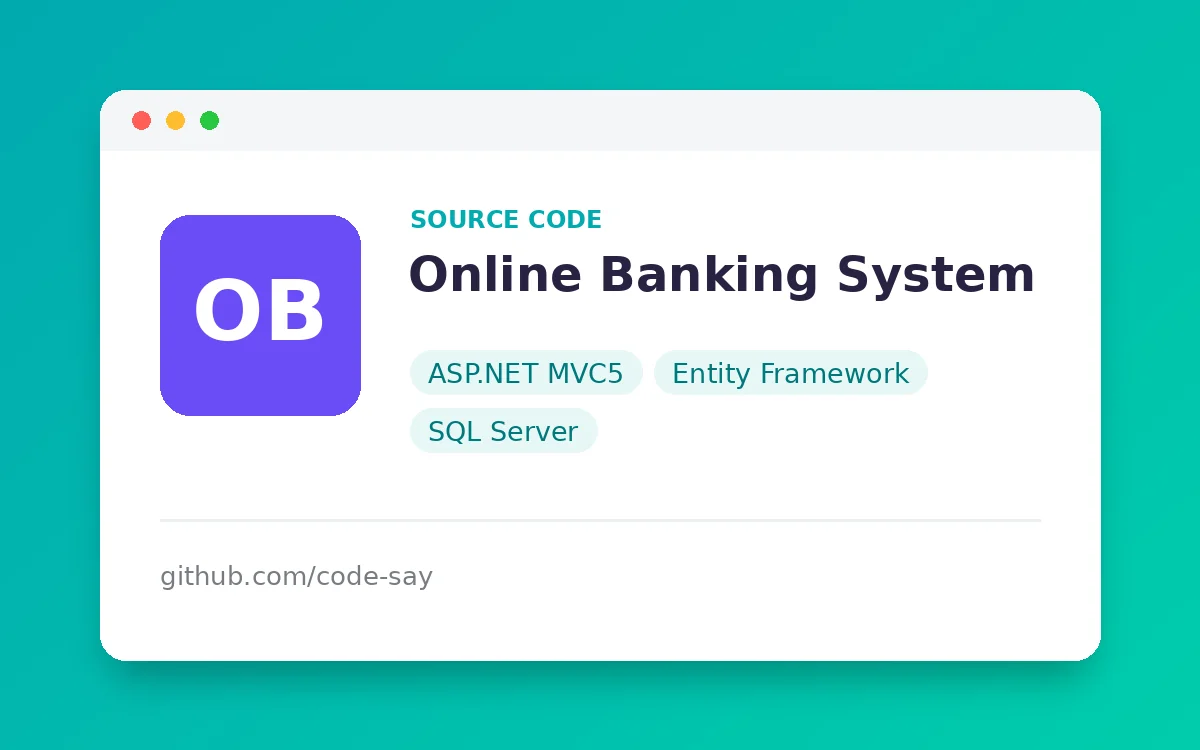
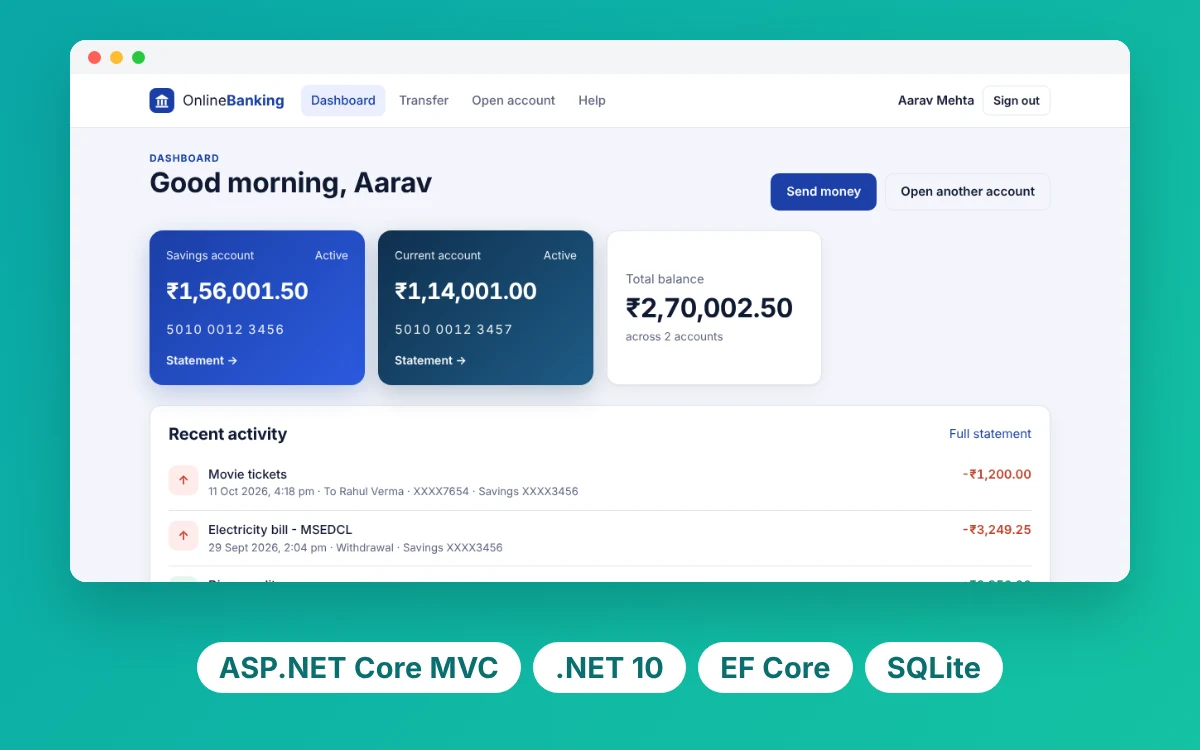
Online Banking: live demo link, new screenshot card and description
Claude-Session: https://claude.ai/code/session_01JHsigC6fZrscFKLuQDa9pY

diff --git a/index.html b/index.html
@@ -179,16 +179,17 @@
                 <h3 class="project-wrapper__text-title">Online Banking System</h3>
                 <div>
                   <p class="mb-4">
-                    Role-based authentication, account management and fund transfers. Built with
-                    ASP.NET MVC5, Entity Framework and SQL Server.
+                    Internet banking with account opening, statements and PIN-protected fund transfers, plus an
+                    admin console. ASP.NET Core MVC (.NET 10), Razor views, EF Core and xUnit tests.
                   </p>
                 </div>
-                <a target="_blank" rel="noopener" class="cta-btn cta-btn--hero" href="https://github.com/code-say/Online-Banking">Source Code</a>
+                <a target="_blank" rel="noopener" class="cta-btn cta-btn--hero" href="https://online-banking.onrender.com/">See Live</a>
+                <a target="_blank" rel="noopener" class="cta-btn text-color-main" href="https://github.com/code-say/Online-Banking">Source Code</a>
               </div>
             </div>
             <div class="col-lg-8 col-sm-12">
               <div class="project-wrapper__image load-hidden">
-                <a href="https://github.com/code-say/Online-Banking" target="_blank" rel="noopener" aria-label="Online Banking System on GitHub">
+                <a href="https://online-banking.onrender.com/" target="_blank" rel="noopener" aria-label="Open Online Banking System">
                   <div data-tilt class="thumbnail rounded">
                     <img class="img-fluid" src="/projects/online-banking.webp" alt="Online Banking System" width="1200" height="750" loading="lazy" />
                   </div>
